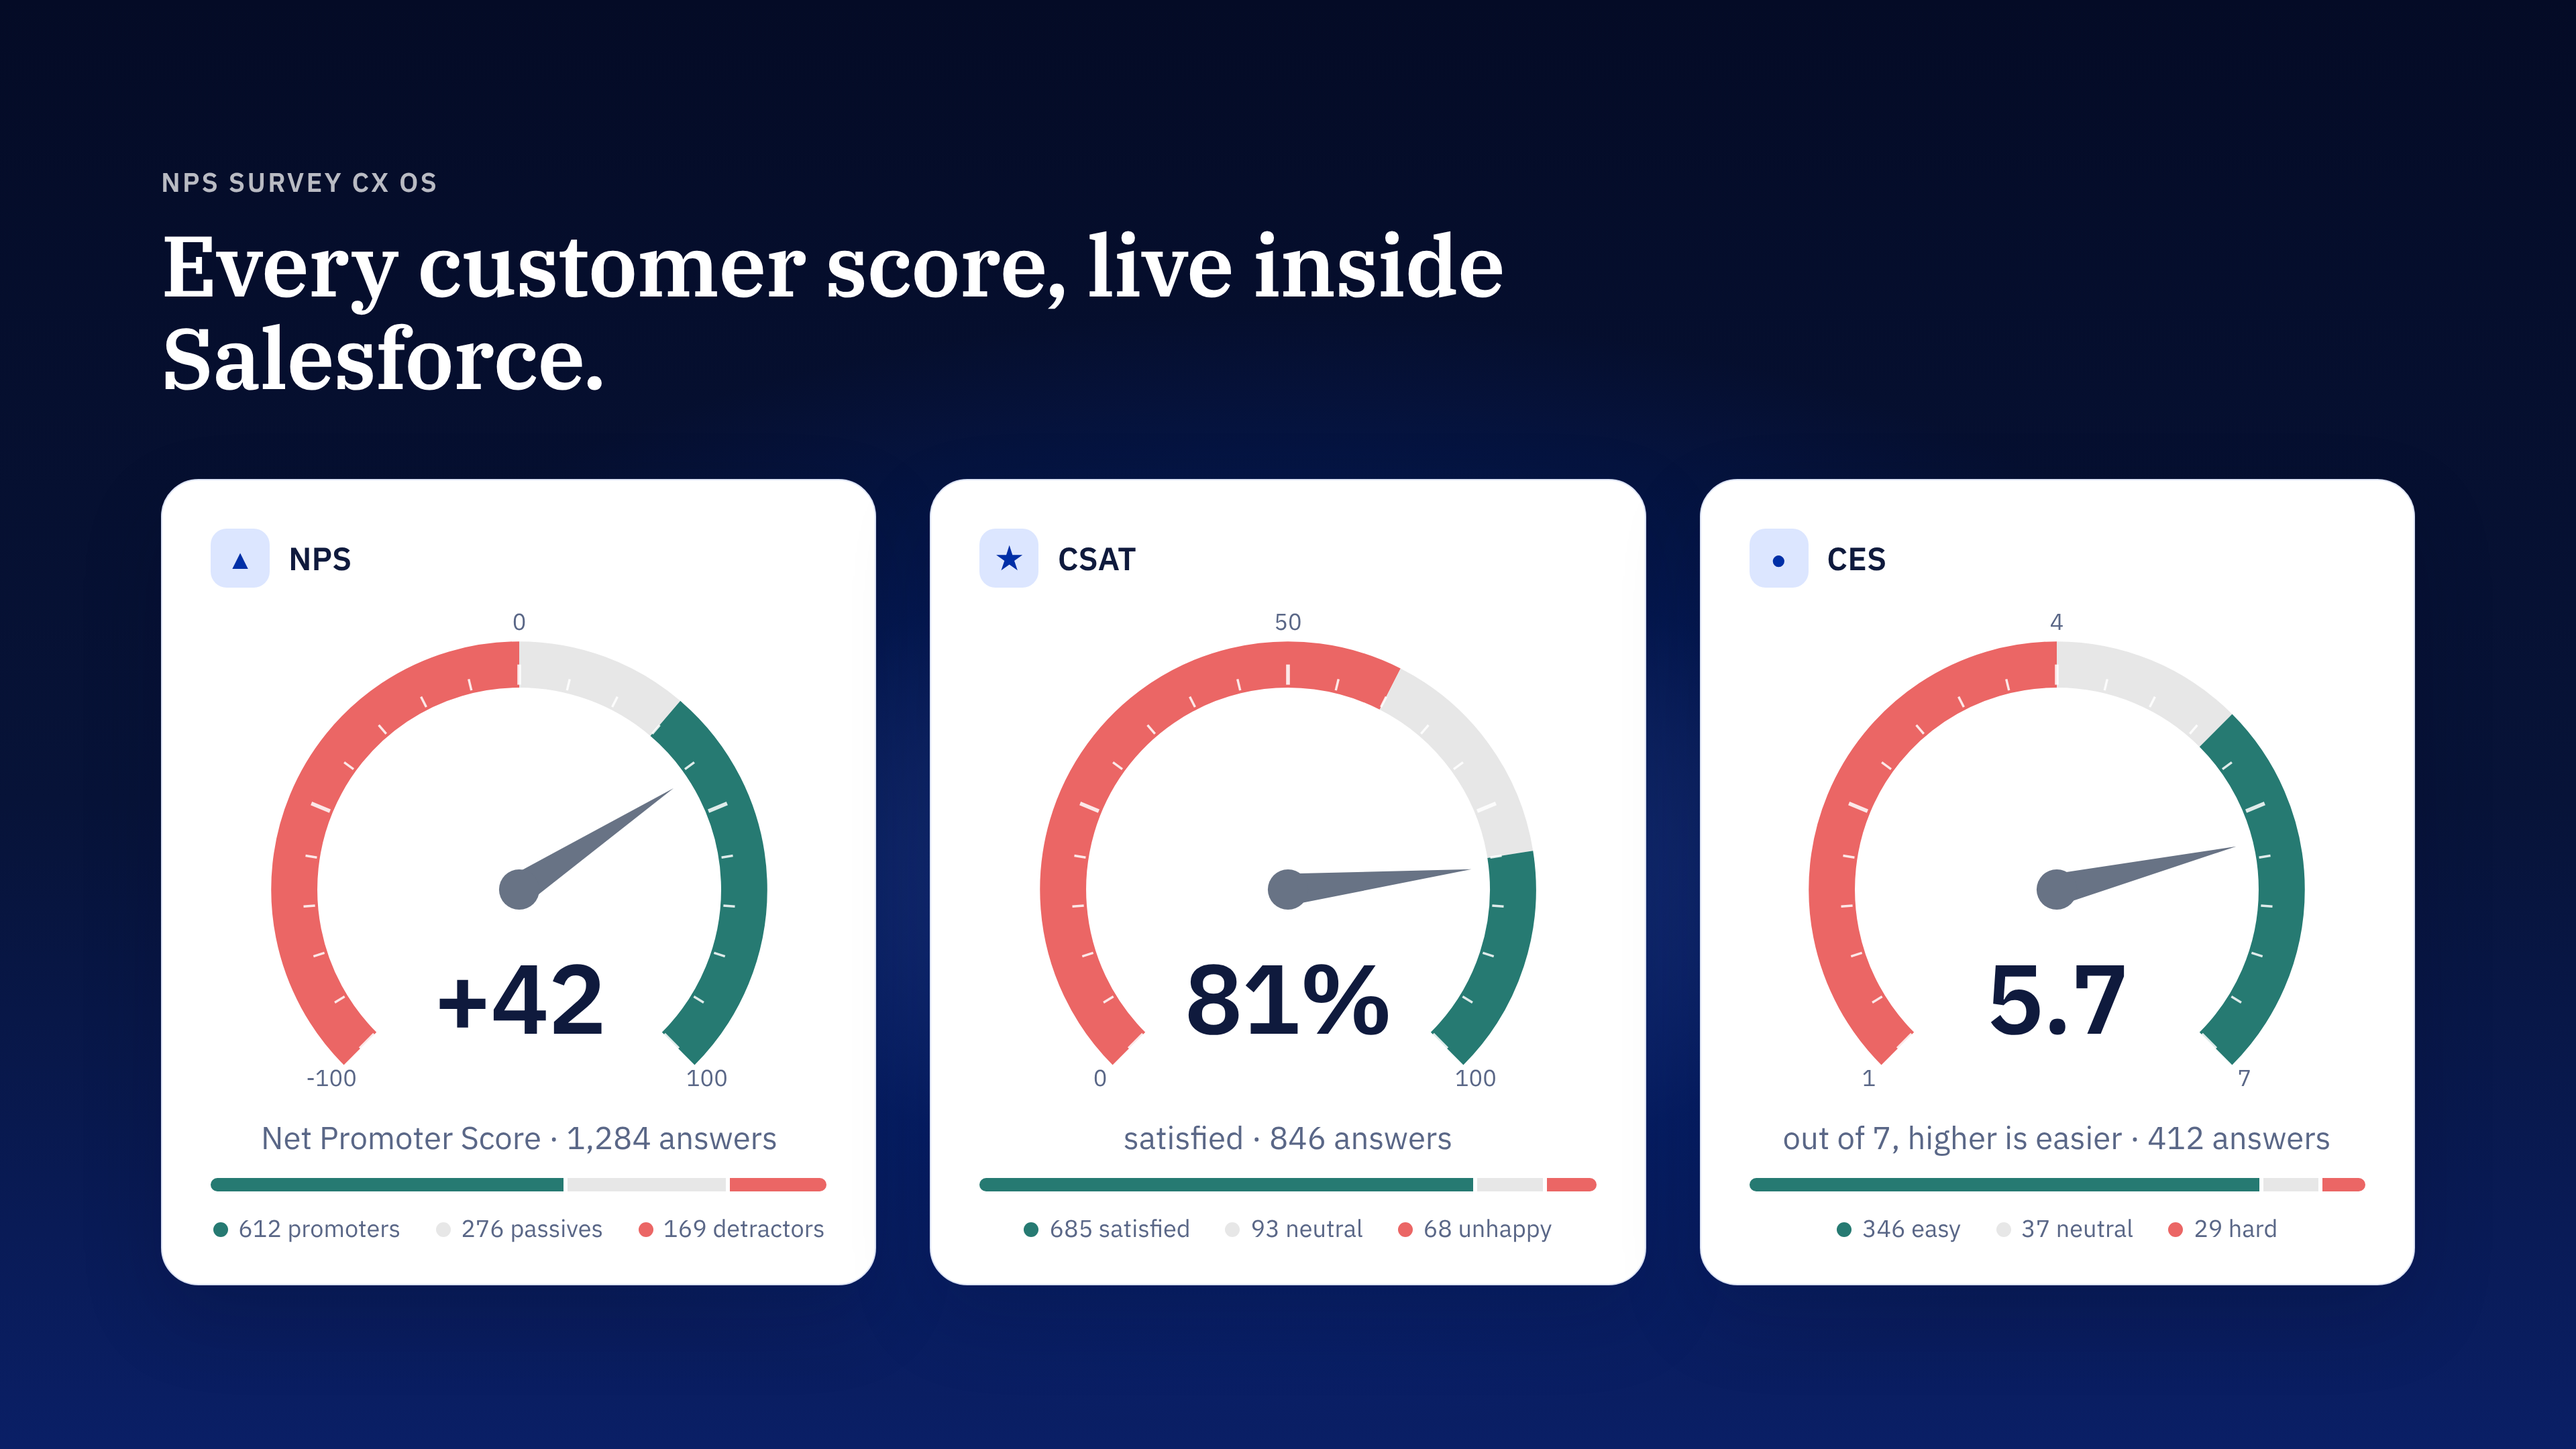
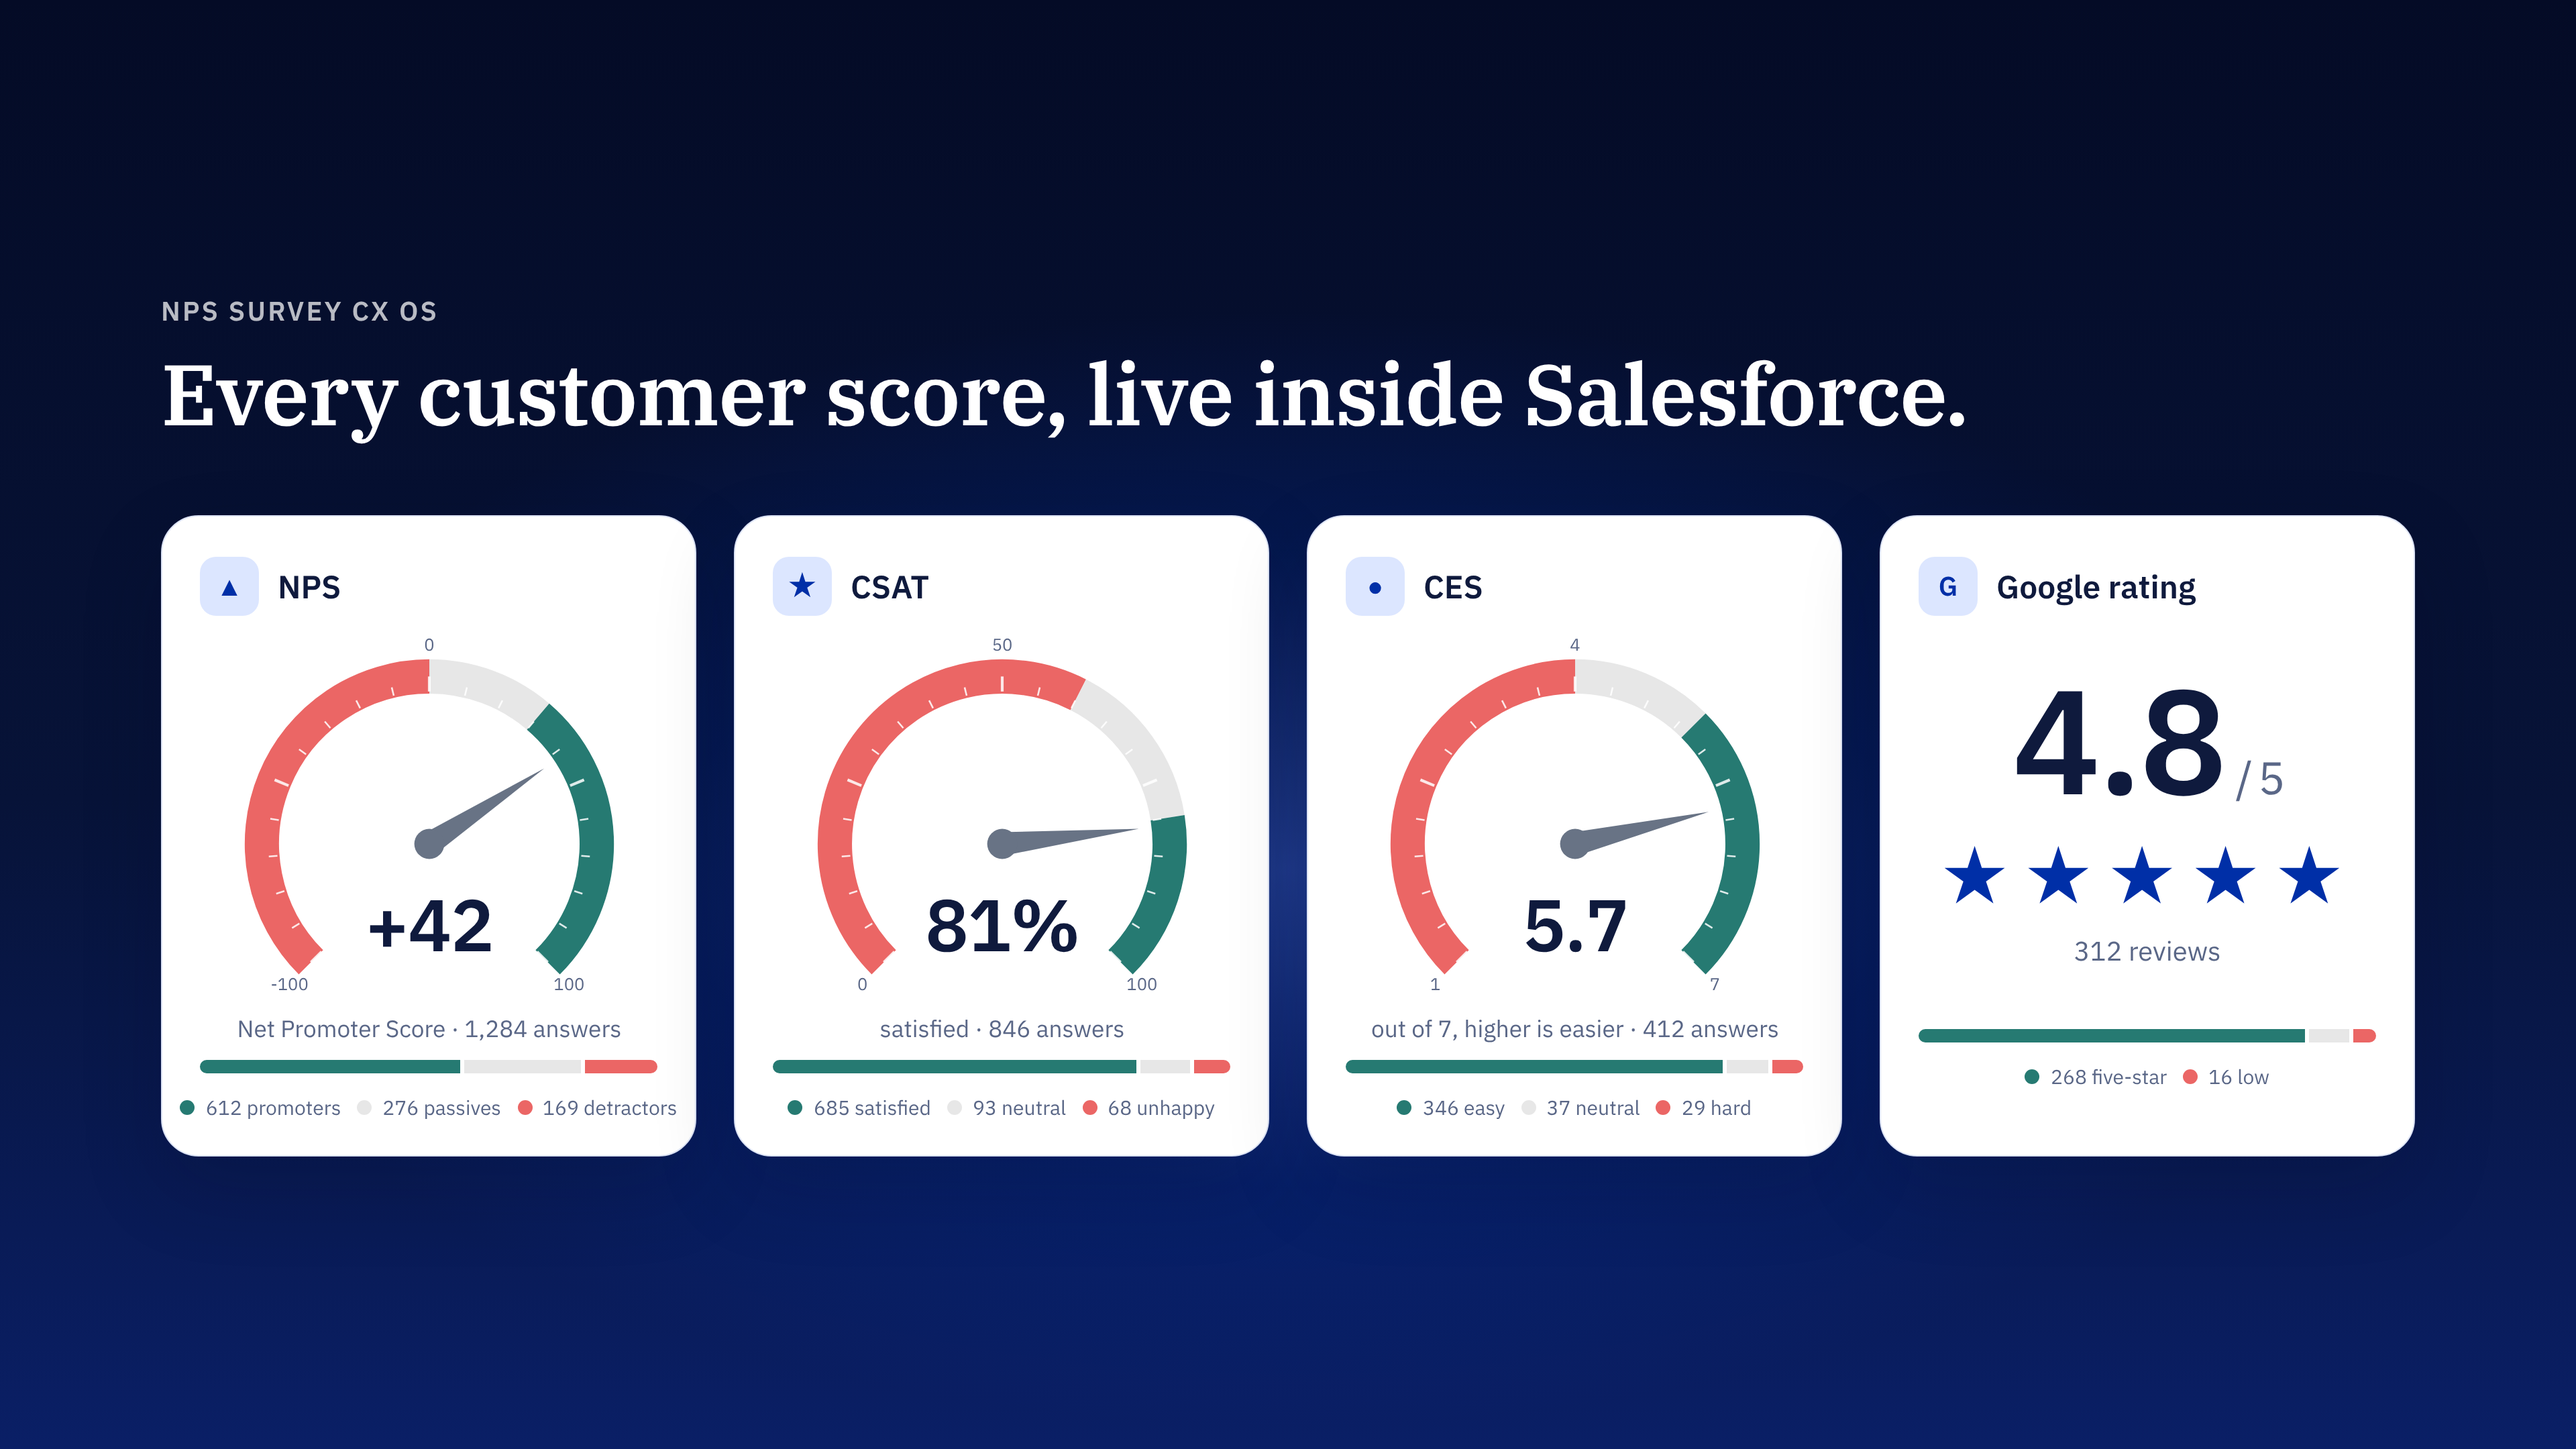
Dial section and 4K renders: add Google rating as fourth score
Claude-Session: https://claude.ai/code/session_01MY5XrxTha1JmVebUjjUfYu

Changed region(s): [[0.0625, 0.1241, 0.9375, 0.8995], [0.1562, 0.5583, 0.1875, 0.5894]]

diff --git a/index.html b/index.html
@@ -270,7 +270,9 @@
 /* Brand type: IBM Plex Serif headlines, IBM Plex Sans text (Nov 2026) */
 h1,h2,.h2{font-family:"IBM Plex Serif",Georgia,"Times New Roman",serif!important;font-weight:600!important;letter-spacing:-.012em!important}
 /* Score dials: the product's NPS, CSAT and CES gauge, our signature */
-.xd-row{display:grid;grid-template-columns:repeat(3,1fr);gap:24px;margin-top:36px}
+.xd-row{display:grid;grid-template-columns:repeat(4,1fr);gap:20px;margin-top:36px}
+.xd-g{display:flex;flex-direction:column;align-items:center;justify-content:center;min-height:200px;margin:8px 0 4px}.xd-g b{font-size:56px;font-weight:600;color:#0F1A3D;letter-spacing:-.02em}.xd-g span{font-size:20px;color:#5A6787;margin-left:6px}.xd-s{color:#002FA7;font-size:30px;letter-spacing:4px;margin:4px 0 6px}.xd-g small{color:#5A6787;font-size:14px}
+@media (max-width:1100px) and (min-width:861px){.xd-row{grid-template-columns:repeat(2,1fr)}}
 .xd-c{background:#fff;border:1px solid #DCE3F5;border-radius:20px;padding:26px 24px 22px;box-shadow:0 8px 24px rgba(4,11,38,.08);text-align:center}
 .xd-h{font-weight:600;font-size:17px;color:#0F1A3D;text-align:left}
 .xd-c .npsd{display:flex;justify-content:center;margin:8px 0 4px}.xd-c .npsd svg{max-width:100%;height:auto}
@@ -1912,11 +1914,12 @@ const XVS = () => `<section class="band tint"><div class="wrap"><h2 class="h2">S
 <div><span>Leaders</span><span>Build your own dashboards</span><span>Executive PDF reports, ready to send</span></div>
 <div><span>Setup</span><span>A developer and custom code</span><span>Guided setup, no code</span></div>
 </div></div></section>`;
-const XDIALS = (dark) => `<section class="band xd${dark?" xd-dark":""}"><div class="wrap"><div class="eyebrow">Our flagship: every customer score</div><h2 class="h2">NPS, CSAT and effort, live on every record.</h2><p class="sub">The same dials your teams see in Salesforce. Every answer moves the needle on the account, the case and the deal, and every red answer becomes a follow-up with an owner.</p>
+const XDIALS = (dark) => `<section class="band xd${dark?" xd-dark":""}"><div class="wrap"><div class="eyebrow">Our flagship: every customer score</div><h2 class="h2">NPS, CSAT, effort and Google rating, live on every record.</h2><p class="sub">The same dials your teams see in Salesforce. Every answer moves the needle on the account, the case and the deal, and every red answer becomes a follow-up with an owner.</p>
 <div class="xd-row">
 <div class="xd-c"><div class="xd-h">Net Promoter Score</div><div data-dial="nps:42" data-size="260" data-caption="NPS · 1,284 answers"></div><div class="xd-b"><b style="flex:58;background:#267A72"></b><b style="flex:26;background:#E7E7E7"></b><b style="flex:16;background:#EB6665"></b></div><p>Loyalty by account, region and product. Detractors become cases on their own.</p></div>
 <div class="xd-c"><div class="xd-h">Customer satisfaction</div><div data-dial="csat:81" data-size="260" data-caption="CSAT · 846 answers"></div><div class="xd-b"><b style="flex:81;background:#267A72"></b><b style="flex:11;background:#E7E7E7"></b><b style="flex:8;background:#EB6665"></b></div><p>Asked the moment a case closes, a visit ends or an order lands.</p></div>
 <div class="xd-c"><div class="xd-h">Customer effort</div><div data-dial="ces:5.7" data-size="260" data-caption="CES, out of 7 · 412 answers"></div><div class="xd-b"><b style="flex:84;background:#267A72"></b><b style="flex:9;background:#E7E7E7"></b><b style="flex:7;background:#EB6665"></b></div><p>Shows where customers work too hard to get help, so you can fix the step.</p></div>
+<div class="xd-c"><div class="xd-h">Google rating</div><div class="xd-g"><div><b>4.8</b><span>/ 5</span></div><div class="xd-s" aria-label="4.8 out of 5 stars">&#9733;&#9733;&#9733;&#9733;&#9733;</div><small>312 reviews</small></div><div class="xd-b"><b style="flex:86;background:#267A72"></b><b style="flex:9;background:#E7E7E7"></b><b style="flex:5;background:#EB6665"></b></div><p>Happy customers are asked for a Google review the moment they say so.</p></div>
 </div></div></section>`;
 const XLEADERS = (k="leaders") => `<section class="xh xh-band xh-dark"><div class="wrap">
  <div class="xh-eyebrow">Who it's for</div>

diff --git a/public-sector/index.html b/public-sector/index.html
@@ -270,7 +270,9 @@
 /* Brand type: IBM Plex Serif headlines, IBM Plex Sans text (Nov 2026) */
 h1,h2,.h2{font-family:"IBM Plex Serif",Georgia,"Times New Roman",serif!important;font-weight:600!important;letter-spacing:-.012em!important}
 /* Score dials: the product's NPS, CSAT and CES gauge, our signature */
-.xd-row{display:grid;grid-template-columns:repeat(3,1fr);gap:24px;margin-top:36px}
+.xd-row{display:grid;grid-template-columns:repeat(4,1fr);gap:20px;margin-top:36px}
+.xd-g{display:flex;flex-direction:column;align-items:center;justify-content:center;min-height:200px;margin:8px 0 4px}.xd-g b{font-size:56px;font-weight:600;color:#0F1A3D;letter-spacing:-.02em}.xd-g span{font-size:20px;color:#5A6787;margin-left:6px}.xd-s{color:#002FA7;font-size:30px;letter-spacing:4px;margin:4px 0 6px}.xd-g small{color:#5A6787;font-size:14px}
+@media (max-width:1100px) and (min-width:861px){.xd-row{grid-template-columns:repeat(2,1fr)}}
 .xd-c{background:#fff;border:1px solid #DCE3F5;border-radius:20px;padding:26px 24px 22px;box-shadow:0 8px 24px rgba(4,11,38,.08);text-align:center}
 .xd-h{font-weight:600;font-size:17px;color:#0F1A3D;text-align:left}
 .xd-c .npsd{display:flex;justify-content:center;margin:8px 0 4px}.xd-c .npsd svg{max-width:100%;height:auto}
@@ -1912,11 +1914,12 @@ const XVS = () => `<section class="band tint"><div class="wrap"><h2 class="h2">S
 <div><span>Leaders</span><span>Build your own dashboards</span><span>Executive PDF reports, ready to send</span></div>
 <div><span>Setup</span><span>A developer and custom code</span><span>Guided setup, no code</span></div>
 </div></div></section>`;
-const XDIALS = (dark) => `<section class="band xd${dark?" xd-dark":""}"><div class="wrap"><div class="eyebrow">Our flagship: every customer score</div><h2 class="h2">NPS, CSAT and effort, live on every record.</h2><p class="sub">The same dials your teams see in Salesforce. Every answer moves the needle on the account, the case and the deal, and every red answer becomes a follow-up with an owner.</p>
+const XDIALS = (dark) => `<section class="band xd${dark?" xd-dark":""}"><div class="wrap"><div class="eyebrow">Our flagship: every customer score</div><h2 class="h2">NPS, CSAT, effort and Google rating, live on every record.</h2><p class="sub">The same dials your teams see in Salesforce. Every answer moves the needle on the account, the case and the deal, and every red answer becomes a follow-up with an owner.</p>
 <div class="xd-row">
 <div class="xd-c"><div class="xd-h">Net Promoter Score</div><div data-dial="nps:42" data-size="260" data-caption="NPS · 1,284 answers"></div><div class="xd-b"><b style="flex:58;background:#267A72"></b><b style="flex:26;background:#E7E7E7"></b><b style="flex:16;background:#EB6665"></b></div><p>Loyalty by account, region and product. Detractors become cases on their own.</p></div>
 <div class="xd-c"><div class="xd-h">Customer satisfaction</div><div data-dial="csat:81" data-size="260" data-caption="CSAT · 846 answers"></div><div class="xd-b"><b style="flex:81;background:#267A72"></b><b style="flex:11;background:#E7E7E7"></b><b style="flex:8;background:#EB6665"></b></div><p>Asked the moment a case closes, a visit ends or an order lands.</p></div>
 <div class="xd-c"><div class="xd-h">Customer effort</div><div data-dial="ces:5.7" data-size="260" data-caption="CES, out of 7 · 412 answers"></div><div class="xd-b"><b style="flex:84;background:#267A72"></b><b style="flex:9;background:#E7E7E7"></b><b style="flex:7;background:#EB6665"></b></div><p>Shows where customers work too hard to get help, so you can fix the step.</p></div>
+<div class="xd-c"><div class="xd-h">Google rating</div><div class="xd-g"><div><b>4.8</b><span>/ 5</span></div><div class="xd-s" aria-label="4.8 out of 5 stars">&#9733;&#9733;&#9733;&#9733;&#9733;</div><small>312 reviews</small></div><div class="xd-b"><b style="flex:86;background:#267A72"></b><b style="flex:9;background:#E7E7E7"></b><b style="flex:5;background:#EB6665"></b></div><p>Happy customers are asked for a Google review the moment they say so.</p></div>
 </div></div></section>`;
 const XLEADERS = (k="leaders") => `<section class="xh xh-band xh-dark"><div class="wrap">
  <div class="xh-eyebrow">Who it's for</div>
